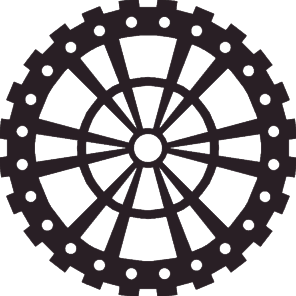
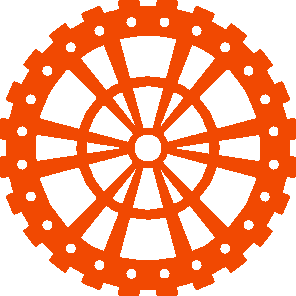
commit 1.2 stabilization improve

diff --git a/src/scss/portfolio.scss b/src/scss/portfolio.scss
@@ -188,12 +188,15 @@
 
 
     .listMainDevice{
+        display: flex;
+        justify-content: center;
+
         .portfolio{
             position: relative;
             top: 250px;
             height: calc((100vw - 100px)/10*9*1.3);
             width: 100%;
-
+            z-index: 0;
             
             display:none;
             filter: opacity(0%);
@@ -236,7 +239,7 @@
                 border-radius: 10px;
                 padding: 5px;
                 height: 40px;
-                width: 30%;
+                width: 350px;
                 background-color: $primary-color;
                 font-family: 'Glacial-Indifference';
                 font-size: 18;
@@ -258,6 +261,11 @@
                 border-bottom: inset 5px $bg-logo-color;
                 background-color: $secondary-color;
             }
+        }
+
+        .capture{
+            overflow-x: hidden;
+            overflow-y: scroll;
         }
 
         .selected{
@@ -295,26 +303,32 @@
             border-radius: 20px;
             background-color: #ffffffcc;
 
-            .visit{
-                z-index: 2;
-                position: absolute;
-                bottom: -45px;
-                justify-self: center;
-                cursor: pointer;
-                border-top: outset 5px $bg-logo-color;
-                border-left: outset 5px $bg-logo-color;
-                border-right: inset 5px $bg-logo-color;
-                border-bottom: inset 5px $bg-logo-color;
-                border-radius: 15px;
-                padding: 5px;
-                height: 40px;
-                width: 15%;
-                background-color: $primary-color;
-            }
+        }
 
-            .visit:hover{
-                background-color: $secondary-color;
-            }
+        .visit{
+            z-index: 1;
+            position: absolute;
+            right: 100px; 
+            bottom: -115px;
+            cursor: pointer;
+            border-top: outset 5px $bg-logo-color;
+            border-left: outset 5px $bg-logo-color;
+            border-right: inset 5px $bg-logo-color;
+            border-bottom: inset 5px $bg-logo-color;
+            border-radius: 15px;
+            padding: 5px;
+            height: 40px;
+            width: 40px;
+            background-color: $primary-color;
+        }
+
+        .visit:hover{
+            background-color: $secondary-color;
+        }
+
+        .capture{
+            overflow-x: hidden;
+            overflow-y: scroll;
         }
 
         .selected{

diff --git a/src/partials/carousel.html b/src/partials/carousel.html
@@ -37,7 +37,7 @@
 
 <ul class="listMainDevice">
     <li class="portfolio" id="site1">
-        <iframe id="lsn" src="https://lasocietenouvelle.org/"></iframe>
+        <iframe id="lsn" src="https://lasocietenouvelle.org/" sandbox="allow-scripts"></iframe>
         <button class="visit"><a target=_blank href="https://lasocietenouvelle.org/">Visiter le site</a></button>    
     </li>
     <li class="portfolio" id="site2">
@@ -49,9 +49,10 @@
     <li class="portfolio" id="site4">
         
     </li>
-    <li class="portfolio" id="site5">
-        <iframe id="ddz" src="https://devdeez.fr"></iframe>
-        <button class="visit"><a target=_blank href="https://devdeez.fr">Visiter le site</a></button>
+    <li class="portfolio capture" id="site5">
+        <!-- <iframe id="ddz" src="https://devdeez.fr" sandbox=""></iframe> -->
+        <img id="ddz" src="assets/images/portfolio/ddz_capture.png" alt="capture du site devdeez">
+        <!-- <button class="visit"><a target=_blank href="https://devdeez.fr">Visiter le site</a></button> -->
     </li>
     <li class="portfolio" id="site6">
         
@@ -65,9 +66,9 @@
 </ul>
 
 <ul class="listSecondDevice">
+    <button class="visit"></button>
     <li class="portfolio" id="site9">
-        <iframe id="lsn" src="https://lasocietenouvelle.org/"></iframe>
-        <button class="visit"></button>    
+        <iframe id="lsn" src="https://lasocietenouvelle.org/" sandbox="allow-scripts"></iframe>
     </li>
     <li class="portfolio" id="site10">
         
@@ -78,9 +79,9 @@
     <li class="portfolio" id="site12">
         
     </li>
-    <li class="portfolio" id="site13">
-        <iframe id="ddz" src="https://devdeez.fr"></iframe>
-        <button class="visit"></button>
+    <li class="portfolio capture" id="site13">
+        <!-- <iframe id="ddz" src="https://devdeez.fr" sandbox=""></iframe> -->
+        <img id="ddz" src="assets/images/portfolio/ddz_capture_port.png" alt="capture du site devdeez">
     </li>
     <li class="portfolio" id="site14">
         

diff --git a/src/scss/nav.scss b/src/scss/nav.scss
@@ -8,15 +8,17 @@ aside {
     grid-template-columns: 106px 1fr;
 
     #gear {
-        @include recolor($secondary-color);
-
         position: fixed;
         width: 321px;
         top: -76px;
-        left: 72px;
+        left: 101px;
         z-index: 3;
         
         transition: z-index 0ms 930ms;
+
+        @include xs {
+            left: 72px;
+        }
     }
     
     #nav-container {
@@ -27,7 +29,7 @@ aside {
         left: 0;
         width: calc((100vw - 100px) / 4);
         z-index: 4;
-        height: 4500px;
+        height: 3500px;
         background-color: $bg-logo-color;
         
         

diff --git a/index.html b/index.html
@@ -36,7 +36,7 @@
         
         <canvas id="background"></canvas>
         
-        <include src="src/partials/footer.html"></include>
+        <!-- <include src="src/partials/footer.html"></include> -->
         
     </main>
     <script src="src/index.js"></script>

diff --git a/src/scss/base.scss b/src/scss/base.scss
@@ -12,7 +12,7 @@ body {
   overflow-x: hidden;
   overflow-y: scroll;
 
-  background-color: $bg-color-invert;
+  background-color: $bg-color;
   color: white;
   scroll-behavior: smooth;
 
